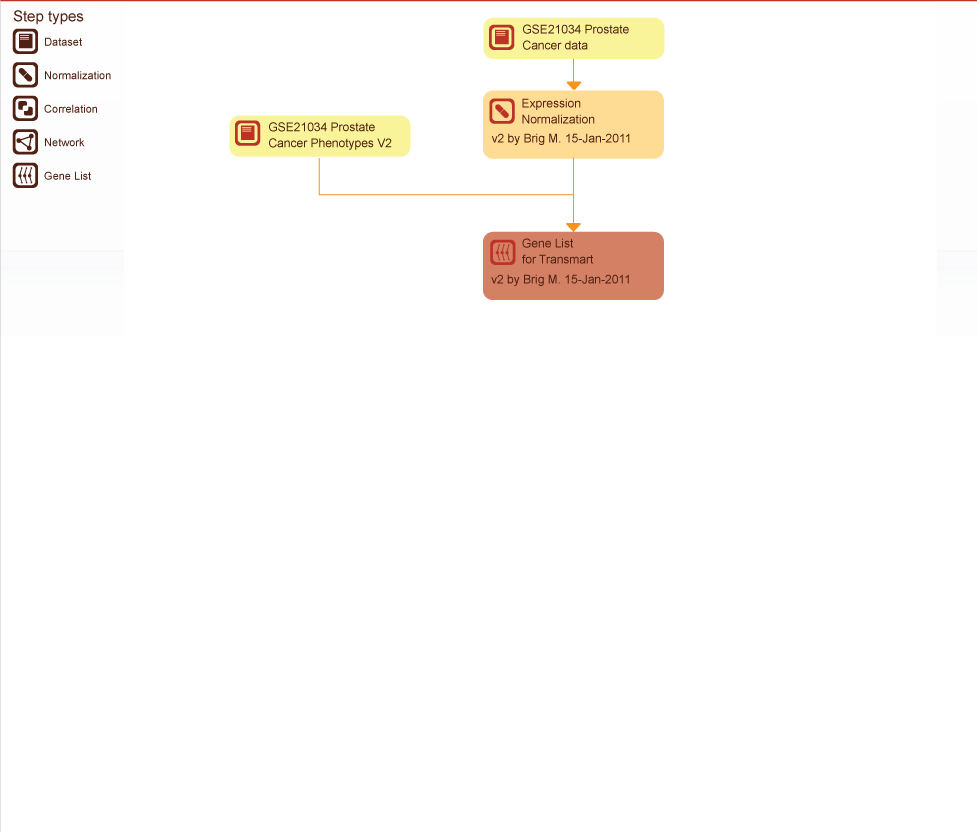
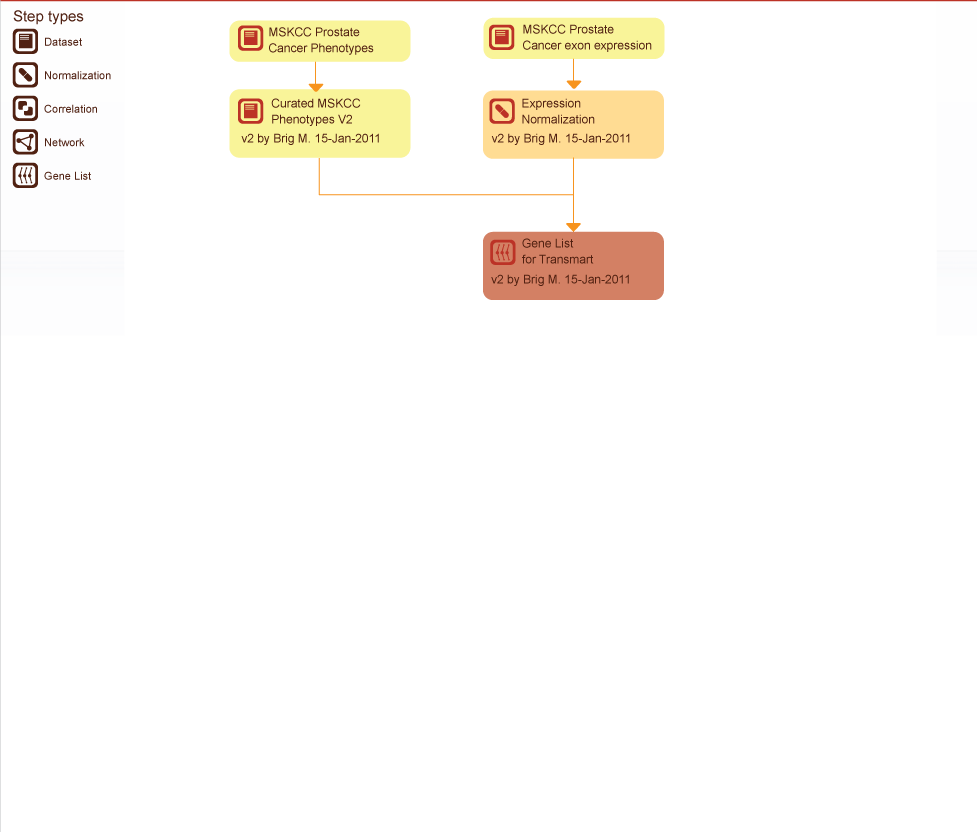
updated MetaGEO maps with new images and new links

Changed region(s): [[0.2149, 0.0, 0.4299, 0.1875], [0.522, 0.0312, 0.6755, 0.0625]]

diff --git a/client/web/src/main/webapp/exp_normalization_metageo.html b/client/web/src/main/webapp/exp_normalization_metageo.html
@@ -151,7 +151,7 @@ three components: a set of criteria that define a goal for normalization, a mode
 <span class="secondary_text">Select a step to view its details
 and resources</span> </span>
 <div class="scrollable"><img
-	src="static/images/prostate-cancer-imagemap.png" BORDER=0 WIDTH=983
+	src="static/images/prostate-cancer-imagemap_highlighted.png" BORDER=0 WIDTH=983
 	HEIGHT=823 usemap="#map1"></div>
 </div>
 </div>
@@ -198,6 +198,9 @@ and resources</span> </span>
 	<map name="map1">
 		<!--	<area shape="rect" coords="135,12,288,25" href="network_overview.html">
 			-->
+			<area shape="rect" coords="485,17,665,65" href="Portal.html#Layer:8;Dataset:0">			
+			<area shape="rect" coords="232,23,412,61" href="Portal.html#Layer:5;Dataset:0">			
+			<area shape="rect" coords="232,90,412,157" href="Portal.html#Layer:10;Dataset:0">
 			<area shape="rect" coords="485,90,666,157" href="exp_normalization_metageo.html">			
 	  		<!-- <area shape="rect" coords="449,231,647,299" href="genelist.html">	 -->
 		</map>

diff --git a/client/web/src/main/webapp/network_overview_metageo.html b/client/web/src/main/webapp/network_overview_metageo.html
@@ -191,6 +191,9 @@
 	<map name="map1">
 		<!--	<area shape="rect" coords="135,12,288,25" href="network_overview.html">
 			-->
+			<area shape="rect" coords="485,17,665,65" href="Portal.html#Layer:8;Dataset:0">
+			<area shape="rect" coords="232,23,412,61" href="Portal.html#Layer:5;Dataset:0">			
+			<area shape="rect" coords="232,90,412,157" href="Portal.html#Layer:10;Dataset:0">
 			<area shape="rect" coords="485,90,666,157" href="exp_normalization_metageo.html">			
 	  		<!-- <area shape="rect" coords="449,231,647,299" href="genelist.html">	 -->
 		</map>
